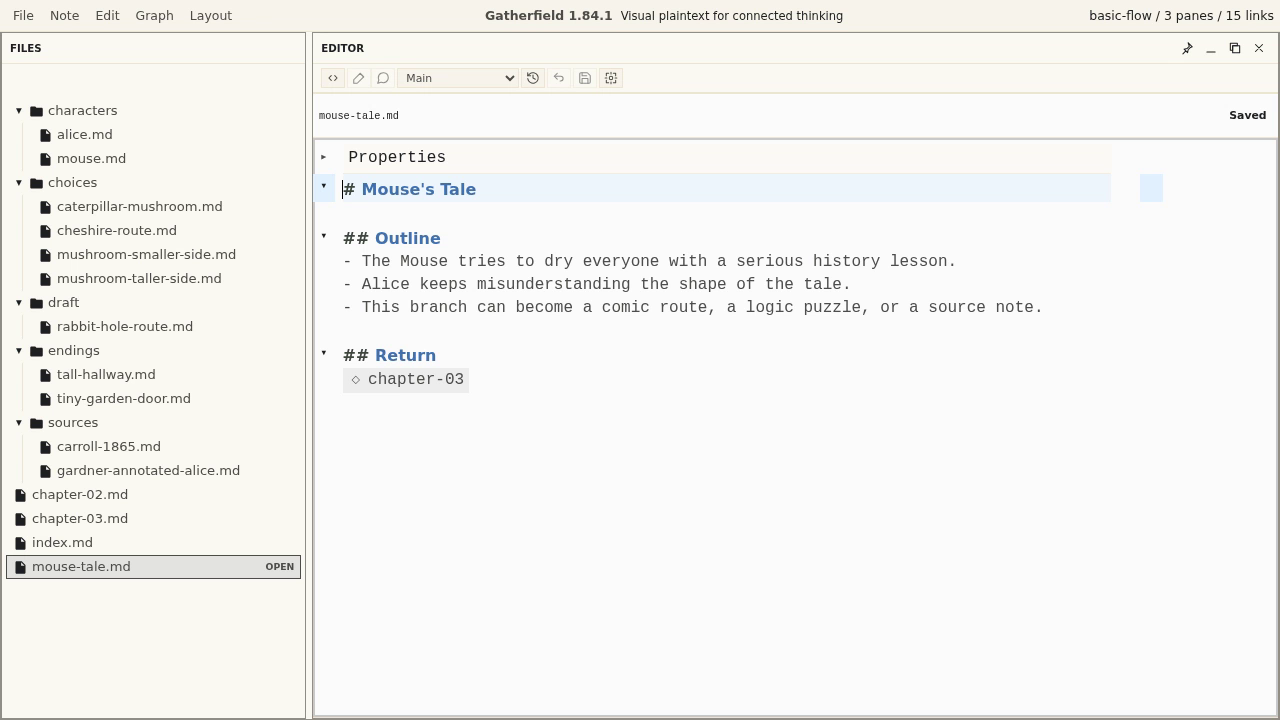
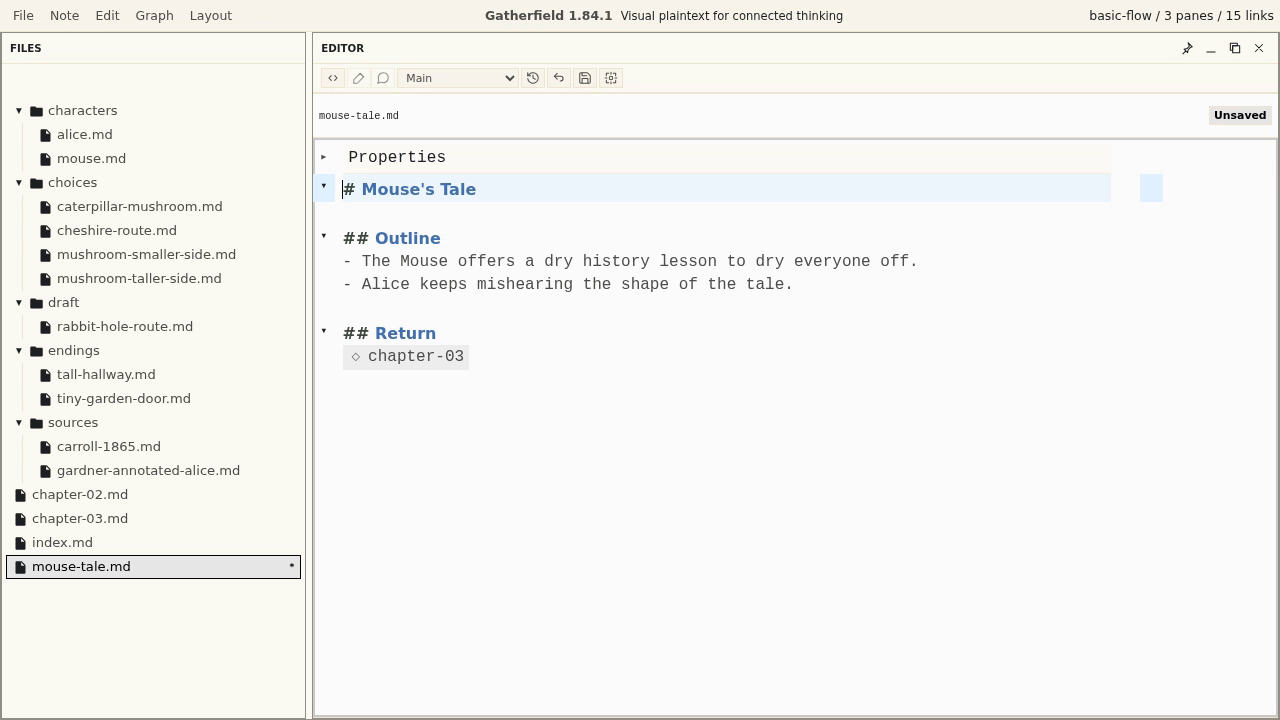
Deploy homepage (build 6005e9a9)
Sync the static Pages payload to the current index.html: 22 referenced assets plus 6 infra files. Generated by deploy-pages.mjs.

diff --git a/index.html b/index.html
@@ -80,17 +80,17 @@
           <figure class="story-media" aria-label="Gatherfield first-class graph video">
             <div class="video-frame is-ready">
               <video
-                poster="./assets/posters/2026-06-15-first-class-graph-poster.png?v=20260615-build-6005e9a9-1280-12pt"
+                poster="./assets/posters/2026-06-15-first-class-graph-poster.png?v=20260615-build-6005e9a9-1280-12pt-r2"
                 muted
                 loop
                 playsinline
                 controls
                 preload="metadata"
               >
-                <source src="./assets/videos/2026-06-15-first-class-graph.mp4?v=20260615-build-6005e9a9-1280-12pt" type="video/mp4" />
-                <source src="./assets/videos/2026-06-15-first-class-graph.webm?v=20260615-build-6005e9a9-1280-12pt" type="video/webm" />
+                <source src="./assets/videos/2026-06-15-first-class-graph.mp4?v=20260615-build-6005e9a9-1280-12pt-r2" type="video/mp4" />
+                <source src="./assets/videos/2026-06-15-first-class-graph.webm?v=20260615-build-6005e9a9-1280-12pt-r2" type="video/webm" />
                 Your browser cannot play this Gatherfield walkthrough video. Download the MP4 from
-                <a href="./assets/videos/2026-06-15-first-class-graph.mp4?v=20260615-build-6005e9a9-1280-12pt">this link</a>.
+                <a href="./assets/videos/2026-06-15-first-class-graph.mp4?v=20260615-build-6005e9a9-1280-12pt-r2">this link</a>.
               </video>
             </div>
             <figcaption>Plaintext links create the graph; following a link opens the next pane in context.</figcaption>
@@ -108,17 +108,17 @@
           <figure class="story-media" aria-label="Gatherfield plaintext versions change map video">
             <div class="video-frame is-ready">
               <video
-                poster="./assets/posters/2026-06-15-plaintext-versions-change-map-poster.png?v=20260615-build-6005e9a9-1280-12pt"
+                poster="./assets/posters/2026-06-15-plaintext-versions-change-map-poster.png?v=20260615-build-6005e9a9-1280-12pt-r2"
                 muted
                 loop
                 playsinline
                 controls
                 preload="metadata"
               >
-                <source src="./assets/videos/2026-06-15-plaintext-versions-change-map.mp4?v=20260615-build-6005e9a9-1280-12pt" type="video/mp4" />
-                <source src="./assets/videos/2026-06-15-plaintext-versions-change-map.webm?v=20260615-build-6005e9a9-1280-12pt" type="video/webm" />
+                <source src="./assets/videos/2026-06-15-plaintext-versions-change-map.mp4?v=20260615-build-6005e9a9-1280-12pt-r2" type="video/mp4" />
+                <source src="./assets/videos/2026-06-15-plaintext-versions-change-map.webm?v=20260615-build-6005e9a9-1280-12pt-r2" type="video/webm" />
                 Your browser cannot play this Gatherfield walkthrough video. Download the MP4 from
-                <a href="./assets/videos/2026-06-15-plaintext-versions-change-map.mp4?v=20260615-build-6005e9a9-1280-12pt">this link</a>.
+                <a href="./assets/videos/2026-06-15-plaintext-versions-change-map.mp4?v=20260615-build-6005e9a9-1280-12pt-r2">this link</a>.
               </video>
             </div>
             <figcaption>Switching versions redraws the graph.</figcaption>
@@ -136,17 +136,17 @@
           <figure class="story-media" aria-label="Gatherfield recoverable history video">
             <div class="video-frame is-ready">
               <video
-                poster="./assets/posters/2026-06-15-local-files-recoverable-history-poster.png?v=20260615-build-6005e9a9-1280-12pt"
+                poster="./assets/posters/2026-06-15-local-files-recoverable-history-poster.png?v=20260615-build-6005e9a9-1280-12pt-r2"
                 muted
                 loop
                 playsinline
                 controls
                 preload="metadata"
               >
-                <source src="./assets/videos/2026-06-15-local-files-recoverable-history.mp4?v=20260615-build-6005e9a9-1280-12pt" type="video/mp4" />
-                <source src="./assets/videos/2026-06-15-local-files-recoverable-history.webm?v=20260615-build-6005e9a9-1280-12pt" type="video/webm" />
+                <source src="./assets/videos/2026-06-15-local-files-recoverable-history.mp4?v=20260615-build-6005e9a9-1280-12pt-r2" type="video/mp4" />
+                <source src="./assets/videos/2026-06-15-local-files-recoverable-history.webm?v=20260615-build-6005e9a9-1280-12pt-r2" type="video/webm" />
                 Your browser cannot play this Gatherfield walkthrough video. Download the MP4 from
-                <a href="./assets/videos/2026-06-15-local-files-recoverable-history.mp4?v=20260615-build-6005e9a9-1280-12pt">this link</a>.
+                <a href="./assets/videos/2026-06-15-local-files-recoverable-history.mp4?v=20260615-build-6005e9a9-1280-12pt-r2">this link</a>.
               </video>
             </div>
             <figcaption>History stays recoverable while the note remains plaintext.</figcaption>
@@ -164,17 +164,17 @@
           <figure class="story-media" aria-label="Gatherfield research sources video">
             <div class="video-frame is-ready">
               <video
-                poster="./assets/posters/2026-06-15-research-out-of-concept-map-poster.png?v=20260615-build-6005e9a9-1280-12pt"
+                poster="./assets/posters/2026-06-15-research-out-of-concept-map-poster.png?v=20260615-build-6005e9a9-1280-12pt-r2"
                 muted
                 loop
                 playsinline
                 controls
                 preload="metadata"
               >
-                <source src="./assets/videos/2026-06-15-research-out-of-concept-map.mp4?v=20260615-build-6005e9a9-1280-12pt" type="video/mp4" />
-                <source src="./assets/videos/2026-06-15-research-out-of-concept-map.webm?v=20260615-build-6005e9a9-1280-12pt" type="video/webm" />
+                <source src="./assets/videos/2026-06-15-research-out-of-concept-map.mp4?v=20260615-build-6005e9a9-1280-12pt-r2" type="video/mp4" />
+                <source src="./assets/videos/2026-06-15-research-out-of-concept-map.webm?v=20260615-build-6005e9a9-1280-12pt-r2" type="video/webm" />
                 Your browser cannot play this Gatherfield walkthrough video. Download the MP4 from
-                <a href="./assets/videos/2026-06-15-research-out-of-concept-map.mp4?v=20260615-build-6005e9a9-1280-12pt">this link</a>.
+                <a href="./assets/videos/2026-06-15-research-out-of-concept-map.mp4?v=20260615-build-6005e9a9-1280-12pt-r2">this link</a>.
               </video>
             </div>
             <figcaption>Sources and citekeys collect beside the note while the concept map stays clean.</figcaption>
@@ -192,17 +192,17 @@
           <figure class="story-media" aria-label="Gatherfield comments and highlights video">
             <div class="video-frame is-ready">
               <video
-                poster="./assets/posters/2026-06-15-comments-and-highlights-poster.png?v=20260615-build-6005e9a9-1280-12pt"
+                poster="./assets/posters/2026-06-15-comments-and-highlights-poster.png?v=20260615-build-6005e9a9-1280-12pt-r2"
                 muted
                 loop
                 playsinline
                 controls
                 preload="metadata"
               >
-                <source src="./assets/videos/2026-06-15-comments-and-highlights.mp4?v=20260615-build-6005e9a9-1280-12pt" type="video/mp4" />
-                <source src="./assets/videos/2026-06-15-comments-and-highlights.webm?v=20260615-build-6005e9a9-1280-12pt" type="video/webm" />
+                <source src="./assets/videos/2026-06-15-comments-and-highlights.mp4?v=20260615-build-6005e9a9-1280-12pt-r2" type="video/mp4" />
+                <source src="./assets/videos/2026-06-15-comments-and-highlights.webm?v=20260615-build-6005e9a9-1280-12pt-r2" type="video/webm" />
                 Your browser cannot play this Gatherfield walkthrough video. Download the MP4 from
-                <a href="./assets/videos/2026-06-15-comments-and-highlights.mp4?v=20260615-build-6005e9a9-1280-12pt">this link</a>.
+                <a href="./assets/videos/2026-06-15-comments-and-highlights.mp4?v=20260615-build-6005e9a9-1280-12pt-r2">this link</a>.
               </video>
             </div>
             <figcaption>Highlights and margin comments stay attached to the passage while the note remains plaintext.</figcaption>
@@ -220,17 +220,17 @@
           <figure class="story-media" aria-label="Gatherfield Draft read-through video">
             <div class="video-frame is-ready">
               <video
-                poster="./assets/posters/2026-06-15-draft-read-through-from-linked-notes-poster.png?v=20260615-build-6005e9a9-1280-12pt"
+                poster="./assets/posters/2026-06-15-draft-read-through-from-linked-notes-poster.png?v=20260615-build-6005e9a9-1280-12pt-r2"
                 muted
                 loop
                 playsinline
                 controls
                 preload="metadata"
               >
-                <source src="./assets/videos/2026-06-15-draft-read-through-from-linked-notes.mp4?v=20260615-build-6005e9a9-1280-12pt" type="video/mp4" />
-                <source src="./assets/videos/2026-06-15-draft-read-through-from-linked-notes.webm?v=20260615-build-6005e9a9-1280-12pt" type="video/webm" />
+                <source src="./assets/videos/2026-06-15-draft-read-through-from-linked-notes.mp4?v=20260615-build-6005e9a9-1280-12pt-r2" type="video/mp4" />
+                <source src="./assets/videos/2026-06-15-draft-read-through-from-linked-notes.webm?v=20260615-build-6005e9a9-1280-12pt-r2" type="video/webm" />
                 Your browser cannot play this Gatherfield walkthrough video. Download the MP4 from
-                <a href="./assets/videos/2026-06-15-draft-read-through-from-linked-notes.mp4?v=20260615-build-6005e9a9-1280-12pt">this link</a>.
+                <a href="./assets/videos/2026-06-15-draft-read-through-from-linked-notes.mp4?v=20260615-build-6005e9a9-1280-12pt-r2">this link</a>.
               </video>
             </div>
             <figcaption>Rearranging inclusion links updates the read-through draft.</figcaption>
@@ -248,17 +248,17 @@
           <figure class="story-media" aria-label="Gatherfield split and combine notes video">
             <div class="video-frame is-ready">
               <video
-                poster="./assets/posters/2026-06-15-split-and-combine-notes-poster.png?v=20260615-build-6005e9a9-1280-12pt"
+                poster="./assets/posters/2026-06-15-split-and-combine-notes-poster.png?v=20260615-build-6005e9a9-1280-12pt-r2"
                 muted
                 loop
                 playsinline
                 controls
                 preload="metadata"
               >
-                <source src="./assets/videos/2026-06-15-split-and-combine-notes.mp4?v=20260615-build-6005e9a9-1280-12pt" type="video/mp4" />
-                <source src="./assets/videos/2026-06-15-split-and-combine-notes.webm?v=20260615-build-6005e9a9-1280-12pt" type="video/webm" />
+                <source src="./assets/videos/2026-06-15-split-and-combine-notes.mp4?v=20260615-build-6005e9a9-1280-12pt-r2" type="video/mp4" />
+                <source src="./assets/videos/2026-06-15-split-and-combine-notes.webm?v=20260615-build-6005e9a9-1280-12pt-r2" type="video/webm" />
                 Your browser cannot play this Gatherfield walkthrough video. Download the MP4 from
-                <a href="./assets/videos/2026-06-15-split-and-combine-notes.mp4?v=20260615-build-6005e9a9-1280-12pt">this link</a>.
+                <a href="./assets/videos/2026-06-15-split-and-combine-notes.mp4?v=20260615-build-6005e9a9-1280-12pt-r2">this link</a>.
               </video>
             </div>
             <figcaption>A section splits into a fifth node while another linked note folds back into the active note.</figcaption>